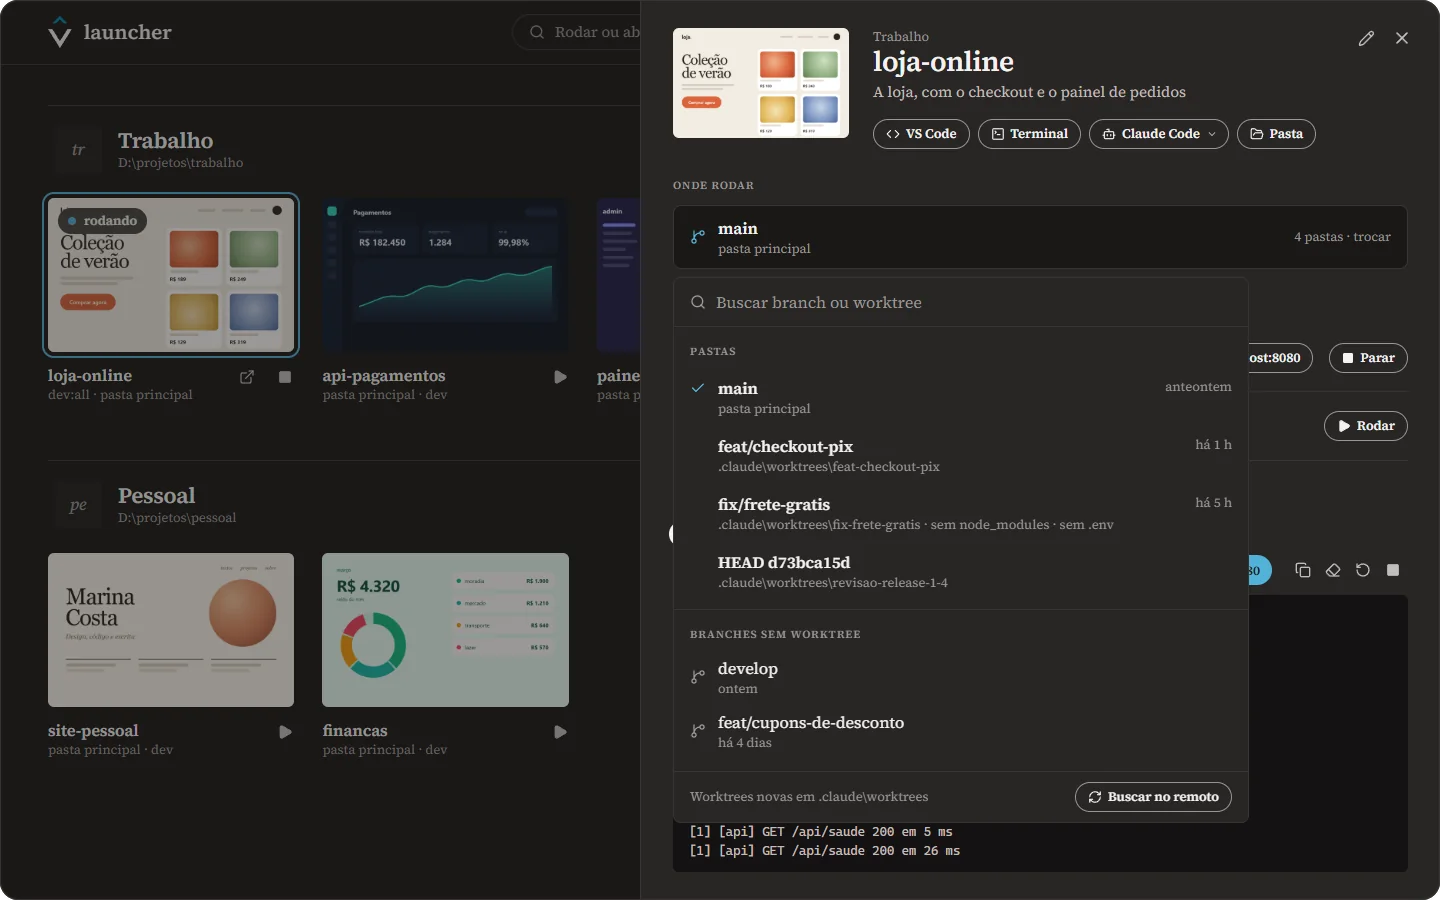
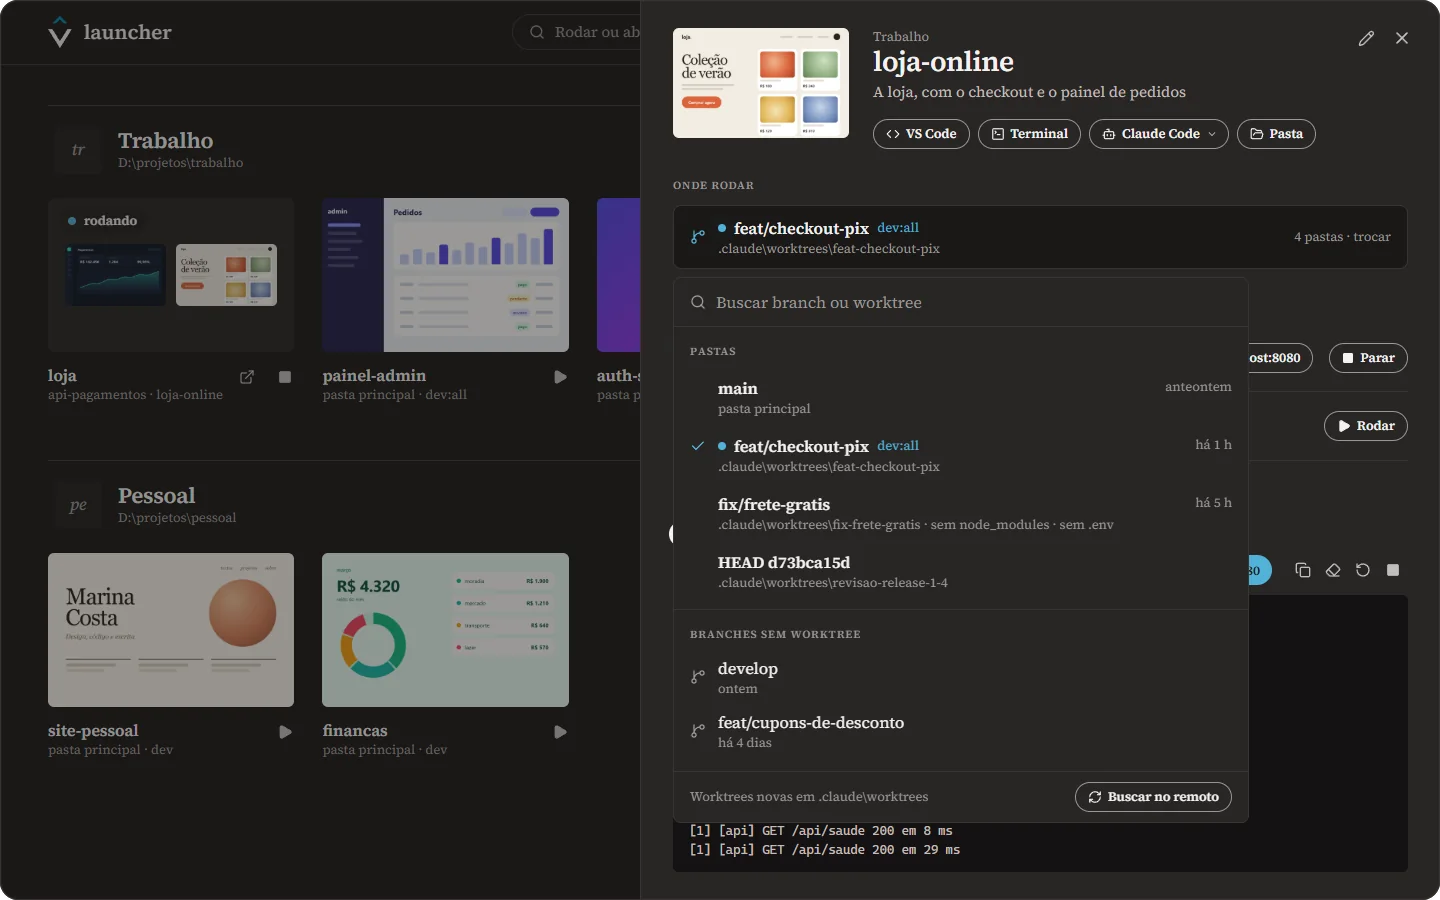
docs: os subgrupos no README e no exemplo
O exemplo do pnpm dev ganha o subgrupo "loja" (a API de pagamentos e o
front da loja), com a saída e a porta da API. O README ganha a seção dos
subgrupos, o vl com subgrupos e o ponto ciano do Onde rodar, e as
capturas refeitas com a loja numa worktree e a API na principal.

diff --git a/src/lib/exemplo.ts b/src/lib/exemplo.ts
@@ -59,6 +59,8 @@ const configInicial: Config = {
           ],
         },
       ],
+      // O front da loja e a API de pagamentos, em repositórios separados: a API sobe primeiro.
+      subgrupos: [{ id: 's1', nome: 'loja', apps: ['a2', 'a1'] }],
     },
     {
       id: 'g2',
@@ -102,6 +104,21 @@ const SAIDA_DO_VITE = [
   '[0]   ➜  Network: http://192.168.0.12:8080/',
 ]
 
+// A API de pagamentos (a2) tem a saída dela, e o resto imita o Vite.
+const SAIDAS: Record<string, { inicio: string[]; batida: () => string; portas: number[] }> = {
+  a2: {
+    inicio: ['> api-pagamentos@2.3.0 dev', '> tsx watch src/servidor.ts', 'migrações em dia (42)', 'API de pagamentos em http://localhost:4000'],
+    batida: () => `POST /pagamentos/pix 201 em ${(Math.random() * 60 + 20).toFixed(0)} ms`,
+    portas: [4000],
+  },
+}
+const saidaDoVite = (rotulo: string) => ({
+  inicio: SAIDA_DO_VITE,
+  batida: () => `[1] [api] GET /api/saude 200 em ${(Math.random() * 40).toFixed(0)} ms`,
+  portas: rotulo.includes('all') ? [3001, 8080] : [5173],
+})
+const saidaDe = (e: Pick<Execucao, 'appId' | 'rotulo'>) => SAIDAS[e.appId] ?? saidaDoVite(e.rotulo)
+
 function ouvir<T>(conjunto: Set<T>, cb: T) {
   conjunto.add(cb)
   return () => void conjunto.delete(cb)
@@ -131,15 +148,18 @@ function iniciar(pedido: Parameters<Api['iniciarExecucao']>[0]): Execucao {
   }
   const registro: { e: Execucao; linhas: Linha[]; timer?: number } = { e, linhas: [] }
   execucoes.set(e.id, registro)
+  const saida = saidaDe(e)
   let i = 0
   registro.timer = window.setInterval(() => {
-    const texto = i < SAIDA_DO_VITE.length ? SAIDA_DO_VITE[i]! : `[1] [api] GET /api/saude 200 em ${(Math.random() * 40).toFixed(0)} ms`
+    const texto = i < saida.inicio.length ? saida.inicio[i]! : saida.batida()
     const linha: Linha = { n: i, texto, erro: i === 2 && pedido.rotulo.includes('staging') }
     i++
     registro.linhas.push(linha)
     for (const cb of ouvintes.linhas) cb(e.id, [linha])
-    if (!e.url && texto.includes('Local:')) {
-      e.url = 'http://localhost:8080/'
+    // O endereço do app: o "Local:" do Vite, ou o da API.
+    const endereco = /(?:Local:|pagamentos em)\s+(http:\/\/localhost:\d+\/?)/.exec(texto)?.[1]
+    if (!e.url && endereco) {
+      e.url = endereco
       emitir(e)
     }
   }, 450)
@@ -173,7 +193,7 @@ window.setInterval(() => {
         id: e.id,
         cpu: agora.cpu,
         memoria: agora.memoria,
-        portas: e.rotulo.includes('all') ? [3001, 8080] : [5173],
+        portas: saidaDe(e).portas,
         quantos: 6,
         processos: [
           { pid: e.pid + 4, nome: 'node.exe', cpu: agora.cpu * 0.7, memoria: vite },

diff --git a/README.md b/README.md
@@ -24,7 +24,7 @@ sem caçar terminal nem porta presa.
 
 <picture>
   <source media="(prefers-color-scheme: dark)" srcset="docs/galeria-escuro.webp">
-  <img src="docs/galeria-claro.webp" alt="A galeria do vlauncher: os apps em dois grupos, cada um com a sua foto, um deles rodando">
+  <img src="docs/galeria-claro.webp" alt="A galeria do vlauncher: os apps em dois grupos, cada um com a sua foto, e o subgrupo da loja rodando">
 </picture>
 
 <p align="center">
@@ -42,7 +42,8 @@ sem caçar terminal nem porta presa.
 
 vlauncher is a Windows desktop app to organize and run the projects you work on. Group your apps,
 define how each one runs (`npm run dev:all`, `docker compose up`...), pick the branch or git worktree
-before running, follow the output in place and watch each app's CPU, memory and ports. The bundled
+before running, bundle a front end and its API from separate repositories into a subgroup that runs
+together, follow the output in place and watch each app's CPU, memory and ports. The bundled
 `vl` command line drives it from any terminal, so a dev server started by Claude Code (through the
 included skill) shows up in the launcher too. Built with Tauri 2, Rust and React; the interface is in
 Brazilian Portuguese. [Download the latest installer](../../releases/latest).
@@ -104,9 +105,19 @@ encerra a árvore inteira de processos (o `npm`, o `node`, o `vite`): a porta fi
 Escolha a pasta antes de rodar: a principal ou qualquer worktree. Uma branch sem worktree ganha uma num
 clique, já com os arquivos que o git não leva (`.env*`, `.npmrc`). O vlauncher avisa quando falta o
 `node_modules` e instala com o gerenciador do projeto (npm, pnpm, yarn ou bun). Num monorepo, o app roda
-na mesma subpasta de cada worktree.
+na mesma subpasta de cada worktree. As pastas em que o app está rodando ganham o ponto ciano.
 
 ![O seletor de onde rodar, com as worktrees e as branches sem worktree](docs/onde-rodar.webp)
+
+### O sistema inteiro, num clique
+
+O front e a API costumam morar em repositórios separados. Junte os dois num **subgrupo**: na galeria,
+eles viram um cartão só, como uma pasta do iPhone, e o painel dele mostra cada app com a sua worktree e
+a saída de todos. **Rodar tudo** sobe cada um com a variação escolhida, a API antes do front, cada um na
+sua pasta: a loja na worktree da feature, a API na principal. Crie em "Novo subgrupo", no menu do grupo;
+o vlauncher sugere os repositórios que moram na mesma pasta.
+
+![O painel de um subgrupo: a API e a loja rodando, cada uma na sua worktree, com a saída das duas](docs/subgrupo.webp)
 
 ### Quanto cada app pesa
 
@@ -124,8 +135,9 @@ aparece no vlauncher como qualquer outro. Com a skill que o acompanha, o Claude 
 servidores por ele. Veja [No terminal e no Claude Code](#no-terminal-e-no-claude-code).
 
 ```sh
-vl rodar loja      # roda a variação padrão e espera o endereço
-vl status          # o que está rodando, com a CPU e a memória
+vl rodar loja-online   # roda a variação padrão e espera o endereço
+vl rodar loja          # o subgrupo: a API e o front, cada um na sua worktree
+vl status              # o que está rodando, com a CPU e a memória
 ```
 
 ### De qualquer lugar
@@ -152,7 +164,7 @@ roda o que já está no launcher: o app e a variação vêm pelo nome, nunca um 
 | Comando | O que faz |
 | --- | --- |
 | `vl status` | O que está rodando: endereço, CPU, memória e portas |
-| `vl apps` | Os apps, com as variações e onde cada um roda |
+| `vl apps` | Os apps, com as variações e onde cada um roda, e os subgrupos |
 | `vl rodar [app]` | Roda a variação padrão e espera o app anunciar o endereço (até 60 s) |
 | `vl parar [app]` | Para o app; `vl parar --todas` para tudo o que está rodando |
 | `vl reiniciar [app]` | Para e roda de novo |
@@ -161,8 +173,13 @@ roda o que já está no launcher: o app e a variação vêm pelo nome, nunca um 
 
 Sem o nome, vale o app da pasta atual, na worktree em que ela está: dentro de
 `.claude\worktrees\feat-x`, o `vl rodar` roda o app nessa worktree, e o vlauncher passa a mostrá-la em
-"Onde rodar". O nome pode ser só um pedaço, sem acento: `vl rodar loja`. Outras opções:
-`-v <variação>`, `--local <branch>`, `--sem-esperar` e `--json`.
+"Onde rodar". O nome pode ser só um pedaço, sem acento: `vl rodar pagamentos` acha o api-pagamentos.
+Outras opções: `-v <variação>`, `--local <branch>`, `--sem-esperar` e `--json`.
+
+O nome de um subgrupo vale para todos os apps dele: `vl rodar loja` sobe cada um com a variação
+escolhida no subgrupo e espera os endereços, e `parar`, `reiniciar` e `saida` valem para todos. Com
+`--local`, roda na worktree da branch cada app que a tiver (a mesma feature no front e na API). Se um app
+e um subgrupo tiverem o mesmo nome, diga qual: `vl rodar "subgrupo loja"`.
 
 ### Com o Claude Code
 
@@ -249,9 +266,11 @@ terminal, com `vl rodar`.
 <summary><b>Como rodo duas worktrees do mesmo app ao mesmo tempo?</b></summary>
 <br>
 
-As duas disputam as portas. O Vite pula sozinho para a próxima porta livre, mas uma API costuma não
-pular. Crie uma variação com outra porta nas variáveis de ambiente, como `PORT=3002` (e, se o front
-encaminha para a API, o endereço dela, como `VITE_API_PROXY_TARGET=http://localhost:3002`).
+Escolha a outra worktree em "Onde rodar" e rode de novo: as duas ficam no ar, cada uma com a sua aba e a
+sua linha no monitor, e as pastas que estão rodando ganham o ponto ciano. Só que as duas disputam as
+portas. O Vite pula sozinho para a próxima porta livre, mas uma API costuma não pular. Crie uma variação
+com outra porta nas variáveis de ambiente, como `PORT=3002` (e, se o front encaminha para a API, o
+endereço dela, como `VITE_API_PROXY_TARGET=http://localhost:3002`).
 
 </details>
 
@@ -335,7 +354,7 @@ Suba a versão em `package.json`, `src-tauri/Cargo.toml` e `src-tauri/tauri.conf
 com `pnpm app:build` e anexe-o a uma Release do GitHub:
 
 ```sh
-gh release create v0.2.0 src-tauri/target/release/bundle/nsis/vlauncher_0.2.0_x64-setup.exe --title "vlauncher 0.2.0"
+gh release create v0.3.0 src-tauri/target/release/bundle/nsis/vlauncher_0.3.0_x64-setup.exe --title "vlauncher 0.3.0"
 ```
 
 O botão "Baixar para Windows" aponta para a Release mais recente.
@@ -366,8 +385,9 @@ src-tauri/src/
   vidro.rs       o acrylic do liquid glass com a janela sem foco
 src-tauri/instalador/  o gancho do instalador que tira o "Launcher" da 0.1.0
 src/
-  lib/           tipos, a ponte com o Rust (api.ts), os stores, o que o vl pede (canal.ts, apps.ts)
-  components/    galeria, capítulo, prancha, painel, monitor, onde rodar, console, diálogos, busca
+  lib/           tipos, a ponte com o Rust (api.ts), os stores, os subgrupos (subgrupos.ts), o que o vl
+                 pede (canal.ts, apps.ts)
+  components/    galeria, capítulo, prancha, subgrupo, painel, monitor, onde rodar, console, diálogos, busca
 claude-code/     a skill vlauncher, que o vl instalar-skill grava
 ```
 
